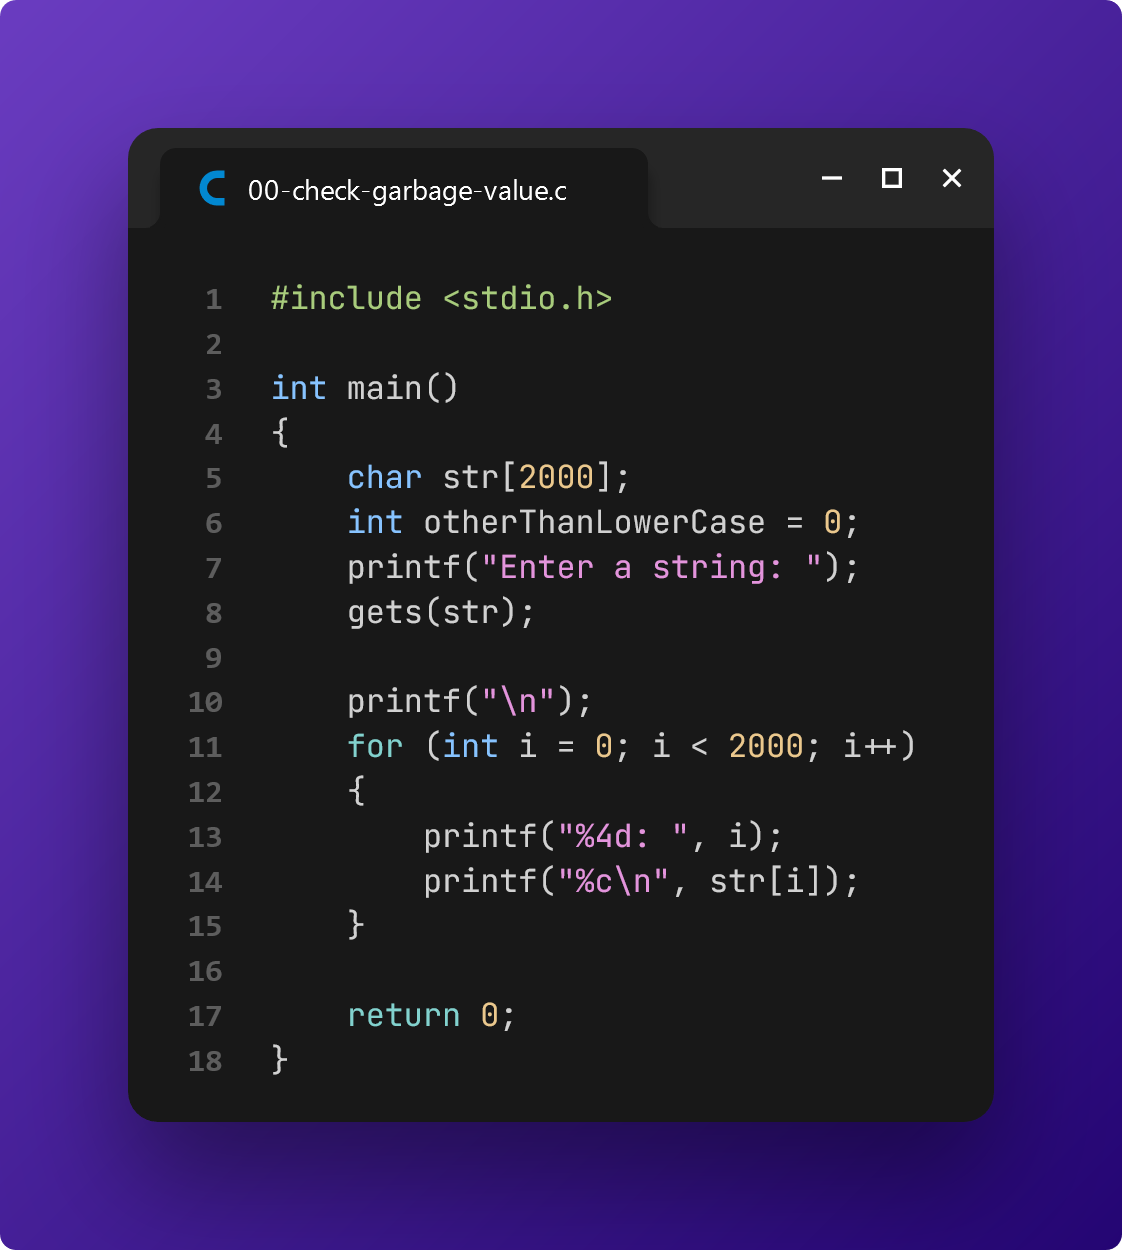
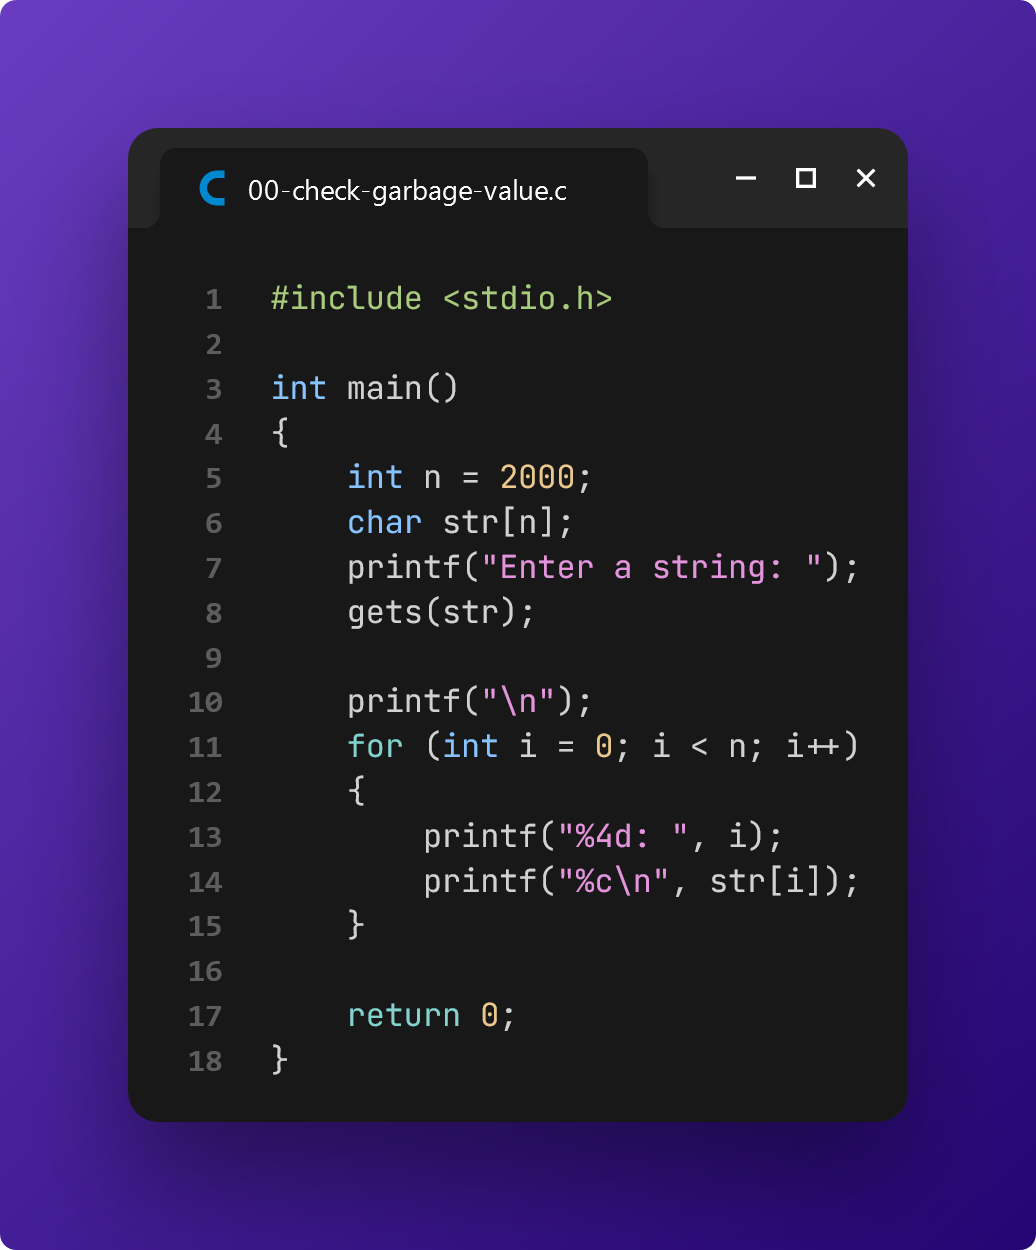
Update code and preview

diff --git a/lab-03/00-check-garbage-value.c b/lab-03/00-check-garbage-value.c
@@ -2,13 +2,13 @@
 
 int main()
 {
-	char str[2000];
-	int otherThanLowerCase = 0;
+	int n = 2000;
+	char str[n];
 	printf("Enter a string: ");
 	gets(str);
 
 	printf("\n");
-	for (int i = 0; i < 2000; i++)
+	for (int i = 0; i < n; i++)
 	{
 		printf("%4d: ", i);
 		printf("%c\n", str[i]);
